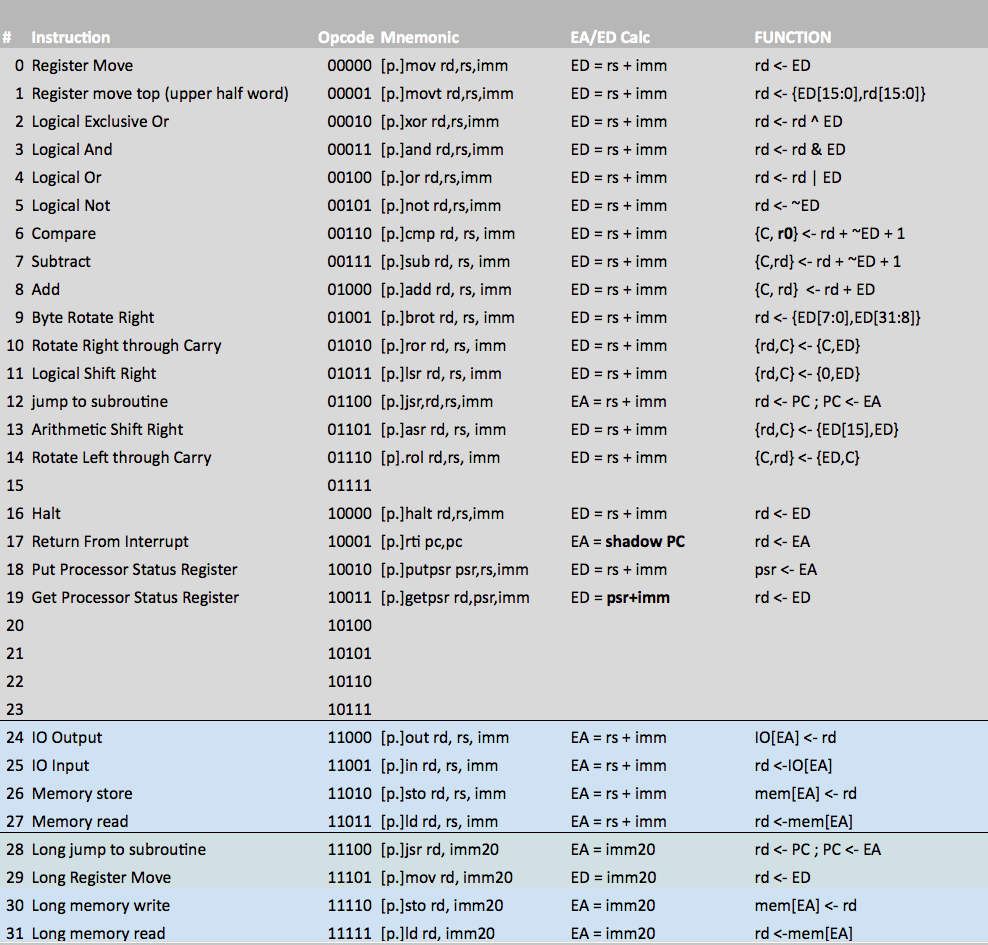
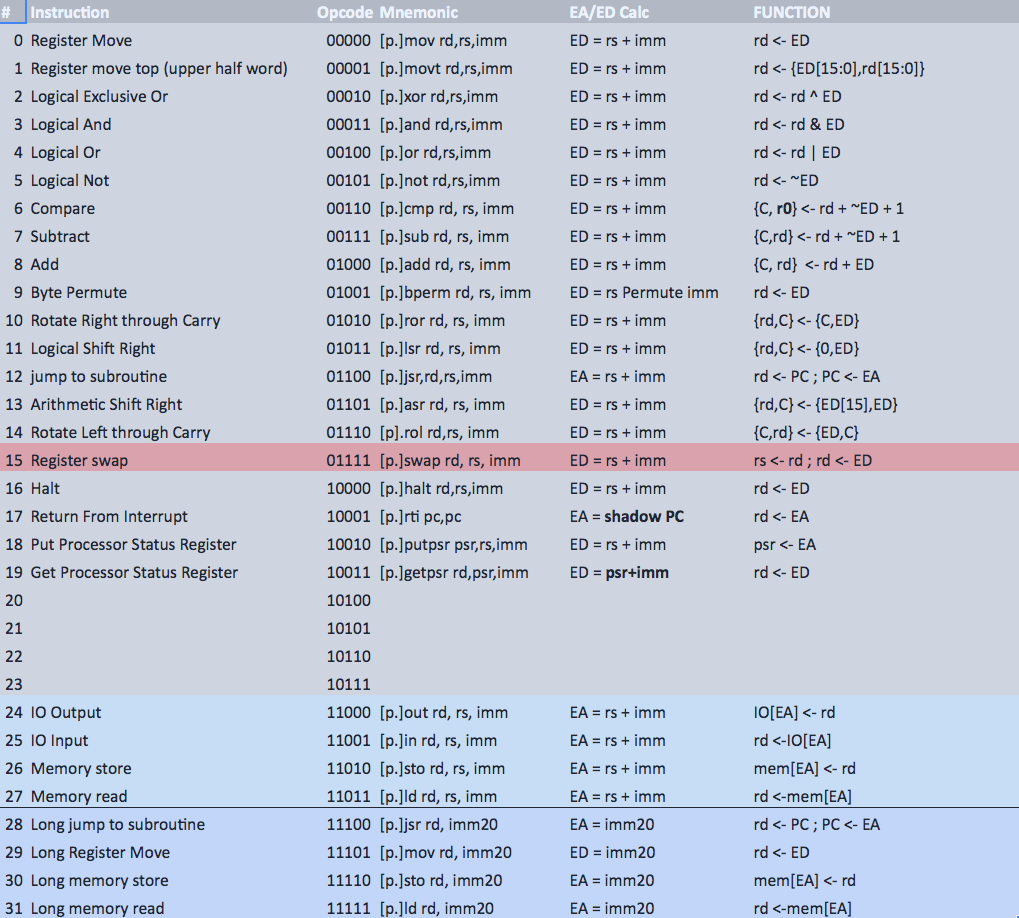
Revised bperm operation

Changed region(s): [[0.0, 0.0, 1.0, 1.0]]

diff --git a/opc7/opc7emu.py b/opc7/opc7emu.py
@@ -34,11 +34,11 @@ while True:
     instr_str = re.sub("r0","psr",instr_str,1) if (opcode in (op["putpsr"],op["getpsr"])) else instr_str
 
     regfile[pcreg] += 1
-    if ( opcode != op["bperm"]):
+    if ( opcode==op["bperm"]):
+        ea_ed = eff_addr = regfile[source]
+    else:
         eff_addr = (regfile[source] + operand)&0xFFFFFFFF  # EA_ED must be computed after PC is brought up to date
         ea_ed = wordmem[eff_addr & 0xFFFFF] if (opcode in(op["ld"],op["lld"])) else iomem[eff_addr&0xFFFF] if (opcode in(op["ld"],op["in"],op["lld"])) else eff_addr
-    else:
-        (eff_addr, ea_ed ) = (operand & 0xFFFF,operand & 0xFFFF)
 
     if opcode == op["in"]:
         try:
@@ -84,8 +84,8 @@ while True:
             elif opcode in (op["jsr"], op["ljsr"]):
                 (preserve_flag,regfile[dest],regfile[pcreg]) = (True,regfile[pcreg],ea_ed)
             elif opcode == op["bperm"]:
-                n = [ (ea_ed>>i)&0x3 for i in range(0,16,4) ]
-                bytes = [ (regfile[source]>>(n[i]*8))&0xFF for i in range(0,4)]
+                n = [ (operand>>i)&0xF for i in range(0,16,4) ]
+                bytes = [ 0 if (8>i>3) else ((ea_ed>>(n[i]*8))&0xFF) for i in range(0,5)]
                 regfile[dest] = functools.reduce( lambda x,y: x|y, [ y<<x for (y,x) in zip(bytes,range(0,32,8))])
             elif opcode == op["putpsr"]:
                 (flag_save, interrupt) = (((ea_ed&0xF0)>>4,(ea_ed&0x8)>>3,(ea_ed&0x4)>>2,(ea_ed&0x2)>>1,(ea_ed)&1), (ea_ed&0xF0)!=0)

diff --git a/opc7/opc7asm.py b/opc7/opc7asm.py
@@ -164,7 +164,7 @@ def assemble( filename, listingon=True):
                             (dst,src,val) = (words + [0])[:3]
                             ##i.e. the valid range of 16-bit IMM would be 0x0000->0x7FFF and 0xFFFF8000->0xFFFFFFFF.
                             val = val & 0xFFFFFFFF
-                            if ( (inst not in ("in","out")) and (0x7FFF < val < 0x0FFFF8000)):
+                            if ( (inst not in ("in","out", "bperm")) and (0x7FFF < val < 0x0FFFF8000)):
                                 errors.append("Error: 16b constant out of range in ...\n         %s" % (line.strip()))
                             elif (inst=="lmov" and dst!=0xF and (0x7FFFF < val < 0x0FFF80000)):
                                 errors.append("Error: 20b constant out of range in ...\n         %s" % (line.strip()))

diff --git a/docs/opc7spec.md b/docs/opc7spec.md
@@ -96,7 +96,32 @@ a prefix on the instruction mnemonic in the assembler.
   |  1 |  1 |  0 | mi.        | Execute if Sign flag is set                        |
   |  1 |  1 |  1 | pl.        | Execute if Sign flag is clear                      |
   
-  
+
+Byte Permute Function
+---------------------
+							
+OPC7 has a powerful byte permute function which can perform various byte-wise shifts, rotations, swaps and replication.							
+							
+Bytes are picked from the source register (rs) and placed into the destination register (rd) according to the bit pattern
+provided in the 16b immediate data. The lower 16 bits of this control word are split into 4 nybbles. The lower two bits
+of each nybble determine which byte of the source will be placed in the corresponding byte position of the destination.
+Bytes (and nybbles) are numbered from 3 down to 0 reading from left to right (MSB to LSB). This is best illustrated
+with some simple examples.							
+							
+BPERM rd,rs, 0x3210		Has no effect on r1 - all bytes are put back in their original positions					
+BPERM rd,rs, 0x0123 		Reverses the order of the bytes in r1					
+BPERM rd,rs, 0x0321		Byte-wise rotate right					
+BPERM rd,rs, 0x2103		Byte-wise rotate left					
+BPERM rd,rs, 0x1032		Half-word swap/rotate					
+BPERM rd,rs, 0x0000		Replicate byte 0 into all bytes					
+BPERM rd,rs, 0x2301 		Shuffle bytes (rotate within half-words)					
+							
+In addition to picking bytes from the source, it's possible also to specify that bytes should be zeroed by setting bit 2
+of the appropriate control word nybble. Again, with some examples
+
+BPERM rd,rs, 0x4444		Zeroes all bytes in the destination 
+BPERM rd,rs, 0x4441 		Zeroes the upper 3 bytes of the destination and moves byte 1 from the source reg into byte zero
+							  
 Interrupts
 ----------
   
